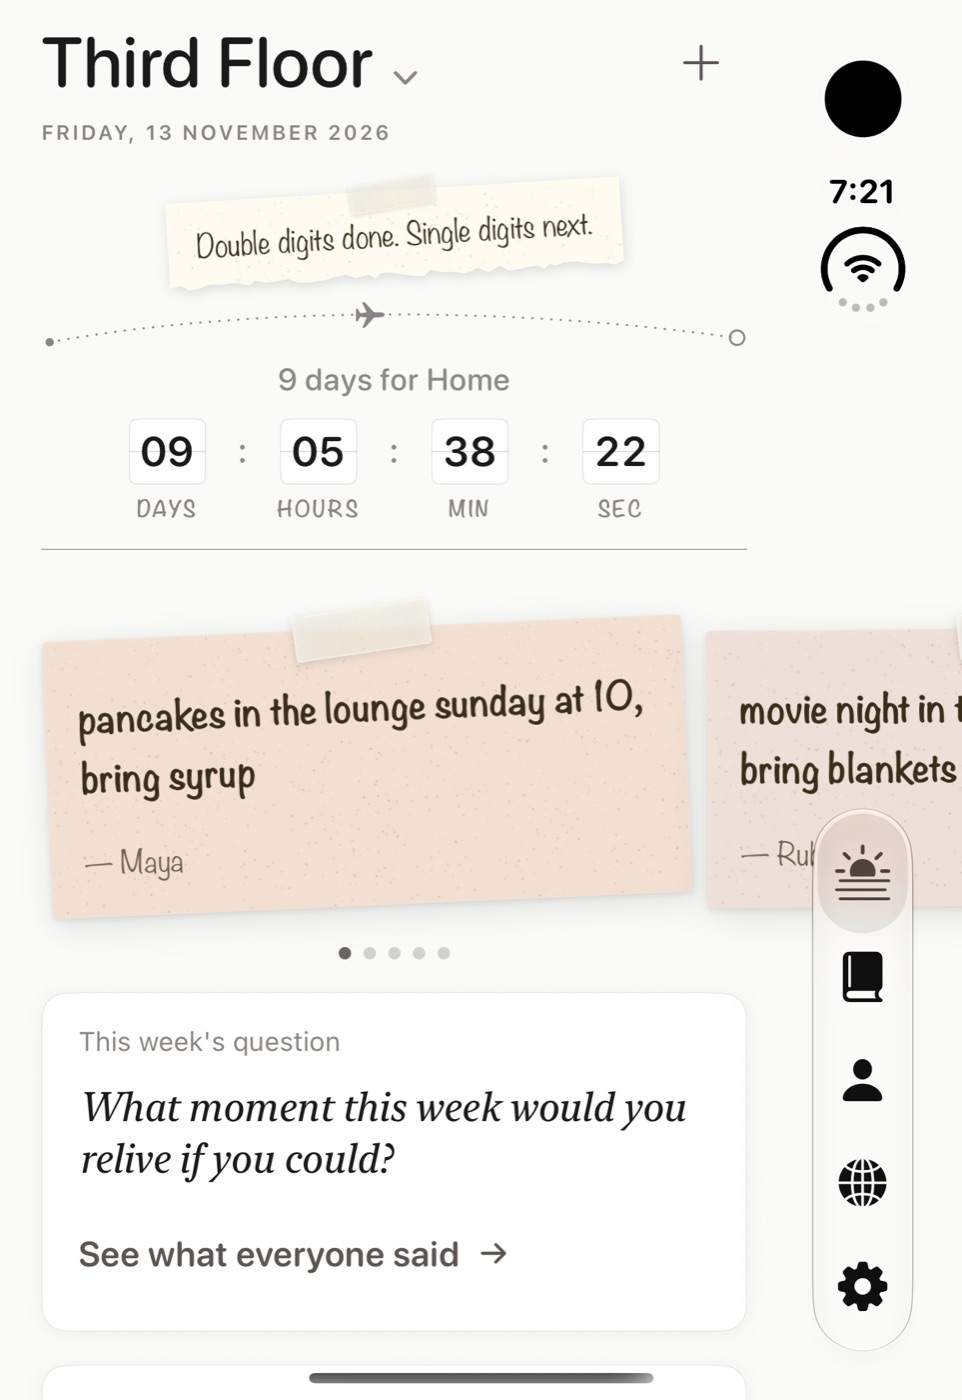
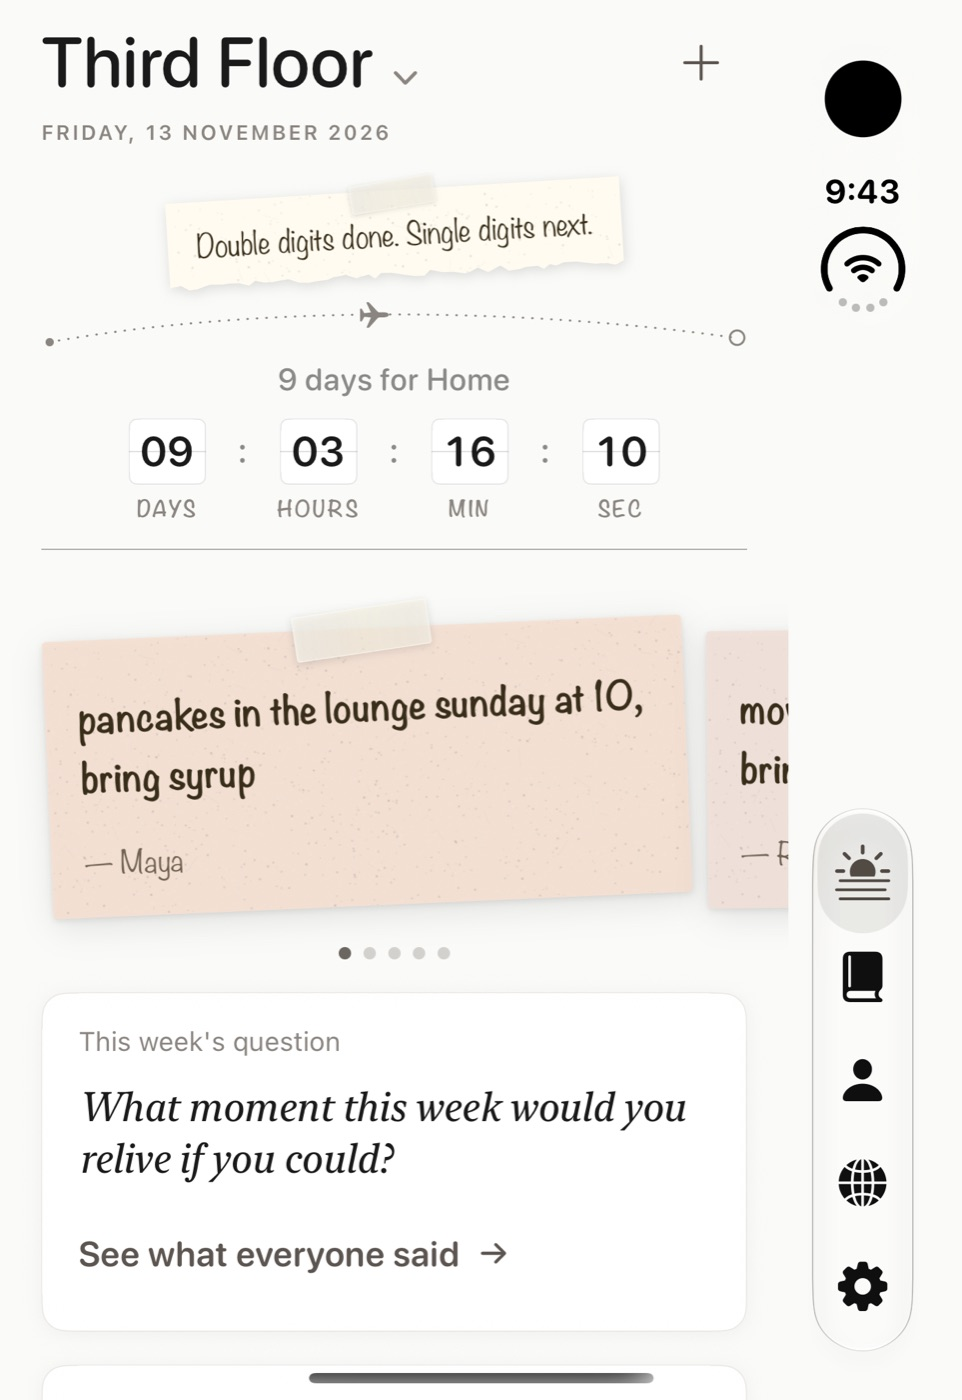
Setup's Skip in the bar, and rows that stop short of the Duo's dock
- Setup: the step scrolls, Continue is pinned above the keyboard and Skip
  is in the navigation bar. On the bio step the keyboard left less room
  than the column needed: Skip was under it and the back button sat over
  the step dots.
- The Duo's cover: Today's note row and the You tab's faces row drew past
  their edges without limit and ran under the side dock. They're masked
  sideways at the page's margin now (bleedsToMargin), which on an ordinary
  iPhone is the screen's edge.

diff --git a/ios/Stanley/SetupView.swift b/ios/Stanley/SetupView.swift
@@ -36,42 +36,49 @@ struct SetupView: View {
 
     var body: some View {
         NavigationStack {
-            VStack(alignment: .leading, spacing: 0) {
-                Dots(step: step)
-                    .padding(.bottom, 28)
-                Group {
-                    Text(title)
-                        .font(.keepsake(34))
-                        .fixedSize(horizontal: false, vertical: true)
-                    Text(subtitle)
-                        .font(.callout)
-                        .foregroundStyle(.secondary)
-                        .fixedSize(horizontal: false, vertical: true)
-                        .padding(.top, 10)
-                    field
-                        .padding(.top, 32)
+            // The step scrolls, Continue stays at the foot above the
+            // keyboard, and Skip is in the bar. As one fixed column (until
+            // build 44) the bio step was taller than the room the keyboard
+            // left: its Skip was under the keyboard and its dots under the
+            // back button.
+            ScrollView {
+                VStack(alignment: .leading, spacing: 0) {
+                    Dots(step: step)
+                        .padding(.bottom, 28)
+                    Group {
+                        Text(title)
+                            .font(.keepsake(34))
+                            .fixedSize(horizontal: false, vertical: true)
+                        Text(subtitle)
+                            .font(.callout)
+                            .foregroundStyle(.secondary)
+                            .fixedSize(horizontal: false, vertical: true)
+                            .padding(.top, 10)
+                        field
+                            .padding(.top, 32)
+                    }
+                    .id(step)
+                    .transition(.asymmetric(
+                        insertion: .opacity.combined(with: .offset(x: 24)),
+                        removal: .opacity
+                    ))
                 }
-                .id(step)
-                .transition(.asymmetric(
-                    insertion: .opacity.combined(with: .offset(x: 24)),
-                    removal: .opacity
-                ))
-                Spacer(minLength: 24)
+                .padding(.horizontal, 24)
+                .padding(.top, 8)
+                .padding(.bottom, 16)
+                .frame(maxWidth: .infinity, alignment: .leading)
+                .readableWidth(density)
+            }
+            .scrollBounceBehavior(.basedOnSize)
+            .scrollDismissesKeyboard(.interactively)
+            .safeAreaInset(edge: .bottom, spacing: 0) {
                 WideButton(title: "Continue", busy: saving, action: proceed)
                     .disabled(!canContinue)
-                Button("Skip") { advance() }
-                    .font(.subheadline)
-                    .foregroundStyle(.secondary)
-                    .frame(maxWidth: .infinity, minHeight: 44)
-                    .opacity(step == .name ? 0 : 1)
-                    .disabled(step == .name || saving)
-                    .accessibilityHidden(step == .name)
+                    .padding(.horizontal, 24)
+                    .padding(.vertical, 8)
+                    .readableWidth(density)
+                    .background(Atmosphere.resolve(raw).palette.floor.ignoresSafeArea(edges: .bottom))
             }
-            .padding(.horizontal, 24)
-            .padding(.top, 8)
-            .padding(.bottom, 8)
-            .readableWidth(density)
-            .frame(maxWidth: .infinity, maxHeight: .infinity, alignment: .top)
             .atmosphereWash()
             .navigationBarTitleDisplayMode(.inline)
             .toolbar {
@@ -87,6 +94,14 @@ struct SetupView: View {
                             Label("Back", systemImage: "chevron.left")
                         }
                         .disabled(saving)
+                    }
+                }
+                // In the bar, where the keyboard can't cover it. A name
+                // can't be skipped.
+                if step != .name {
+                    ToolbarItem(placement: .confirmationAction) {
+                        Button("Skip") { advance() }
+                            .disabled(saving)
                     }
                 }
             }

diff --git a/ios/Stanley/Layout.swift b/ios/Stanley/Layout.swift
@@ -155,6 +155,21 @@ extension View {
         padding(.horizontal, density.creaseBuffer)
     }
 
+    /// A row that scrolls sideways and draws past its own edges (a note's
+    /// tape and shadow, a face's ring), but no further sideways than the
+    /// page's margin. On an ordinary iPhone the margin ends at the screen's
+    /// edge, so nothing changes. On the Duo's cover the tab bar is a dock
+    /// down the trailing side, which the page clears but an unclipped row
+    /// ran on under (build 44).
+    func bleedsToMargin(_ margin: CGFloat = 20) -> some View {
+        scrollClipDisabled()
+            .mask {
+                Rectangle()
+                    .padding(.horizontal, -margin)
+                    .padding(.vertical, -200)
+            }
+    }
+
     /// Fold and unfold mid-session: reflow, never reload.
     func foldAnimated(_ sizeClass: UserInterfaceSizeClass?) -> some View {
         animation(.default, value: sizeClass)

diff --git a/ios/Stanley/NoteBoard.swift b/ios/Stanley/NoteBoard.swift
@@ -198,7 +198,7 @@ struct NoteBoard: View {
             }
             .scrollTargetBehavior(.viewAligned)
             .scrollPosition(id: $current)
-            .scrollClipDisabled()
+            .bleedsToMargin()
             // Held still while you write, so the note can't slide away
             // from under the cursor.
             .scrollDisabled(!many || draft != nil)

diff --git a/ios/Stanley/ProfileView.swift b/ios/Stanley/ProfileView.swift
@@ -229,7 +229,7 @@ private struct CircleCards: View {
             }
             .padding(.vertical, 4)
         }
-        .scrollClipDisabled()
+        .bleedsToMargin()
     }
 
     /// A face-sized ring in the accent with a plus, and "Invite" beneath in

diff --git a/CLAUDE.md b/CLAUDE.md
@@ -416,11 +416,20 @@ Backend and iOS unless noted. All guarded by the test suite where testable.
     **Not seen:** a real phone, the Duo's inner display (the simulator
     can't unfold), VoiceOver, Dynamic Type at large sizes, and the widget
     on a real Home Screen.
-  - **Seen and left** (not this pass's doing): on setup's "Write a little
-    about yourself" step with the keyboard up, Skip is under the keyboard
-    and the back button sits over the step dots (iPhone 17); and on the
-    Duo's cover the note row and the You tab's Invite ring run under the
-    side dock at their trailing end.
+  - **Two layout fixes after it** (the same day, from what the second
+    pass saw). **Setup** (`SetupView`): the step scrolls, Continue is
+    pinned at the foot above the keyboard, and **Skip is in the navigation
+    bar** (trailing; not on the name step). As one fixed column, the bio
+    step was taller than the room the keyboard left on an iPhone 17: Skip
+    was under the keyboard and the back button over the step dots. **The
+    Duo's cover**: the note row on Today and the faces row on You drew
+    past their edges with no limit (`scrollClipDisabled`, for the tape,
+    shadows and rings) and ran on under the side dock. They're
+    `bleedsToMargin()` now (`Layout.swift`): still unclipped up and down,
+    but masked sideways at the page's 20pt margin, which on an ordinary
+    iPhone is the screen's edge, so nothing changes there. Checked on the
+    iPhone 17 simulator (the username and bio steps, light and dark) and
+    the Duo's cover (Today and You, light).
   - **Stale because of this:** every App Store screenshot in
     `ios/AppStoreScreenshots/` and the plan in `APP_STORE_METADATA.md`
     (whose description lost its filters sentence).
